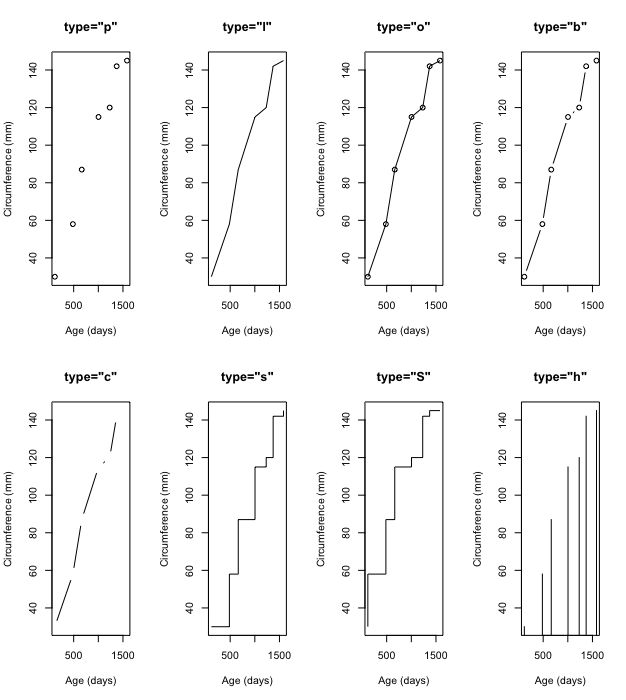
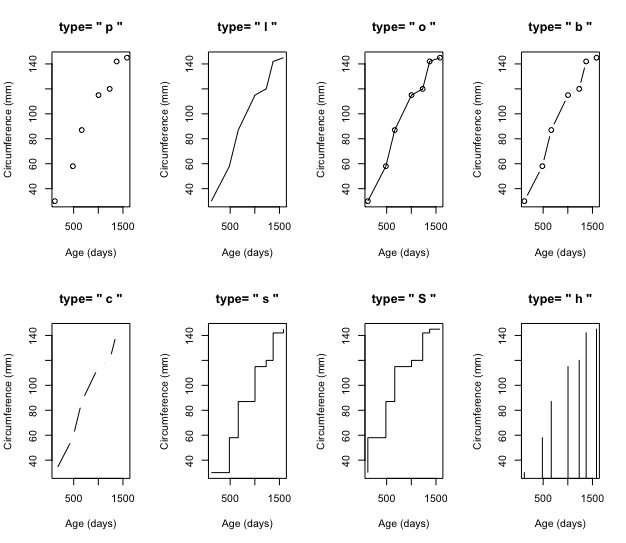
update code

diff --git a/docs/post/rinaction11/index.html b/docs/post/rinaction11/index.html
@@ -74,7 +74,7 @@
 <meta itemprop="description" content="Notebook of Reading Books: R in Action_Chapter 11.">
 <meta itemprop="datePublished" content="2020-11-03T00:00:00+00:00" />
 <meta itemprop="dateModified" content="2020-11-03T00:00:00+00:00" />
-<meta itemprop="wordCount" content="1950">
+<meta itemprop="wordCount" content="1953">
 
 
 
@@ -1276,7 +1276,7 @@ if (!doNotTrack) {
 <span class="n">t1</span> <span class="o">&lt;-</span> <span class="nf">subset</span><span class="p">(</span><span class="n">Orange</span><span class="p">,</span> <span class="n">Tree</span><span class="o">==</span><span class="m">1</span><span class="p">)</span>
 
 <span class="nf">for </span><span class="p">(</span><span class="n">i</span> <span class="n">in</span> <span class="n">linetpye</span><span class="p">){</span>
-  <span class="n">mainstr</span> <span class="o">&lt;-</span> <span class="nf">paste</span><span class="p">(</span><span class="s">&#34;type =&#34;</span><span class="p">,</span> <span class="n">i</span><span class="p">)</span>
+  <span class="n">mainstr</span> <span class="o">&lt;-</span> <span class="nf">paste</span><span class="p">(</span><span class="s">&#34;type = &#34;</span><span class="p">,</span> <span class="s">&#39;&#34;&#39;</span><span class="p">,</span> <span class="n">i</span><span class="p">,</span> <span class="s">&#39;&#34;&#39;</span><span class="p">)</span>
   <span class="nf">plot</span><span class="p">(</span><span class="n">t1</span><span class="o">$</span><span class="n">age</span><span class="p">,</span> <span class="n">t1</span><span class="o">$</span><span class="n">circumference</span><span class="p">,</span>
        <span class="n">xlab</span> <span class="o">=</span> <span class="s">&#34;Age (days)&#34;</span><span class="p">,</span>
        <span class="n">ylab</span> <span class="o">=</span> <span class="s">&#34;Circumference (mm)&#34;</span><span class="p">,</span>

diff --git a/content/post/rinaction11.md b/content/post/rinaction11.md
@@ -376,7 +376,7 @@ linetpye <- c("p", "l", "o", "b", "c", "s", "S", "h")
 t1 <- subset(Orange, Tree==1)
 
 for (i in linetpye){
-  mainstr <- paste("type =", i)
+  mainstr <- paste("type = ", '"', i, '"')
   plot(t1$age, t1$circumference,
        xlab = "Age (days)",
        ylab = "Circumference (mm)",
